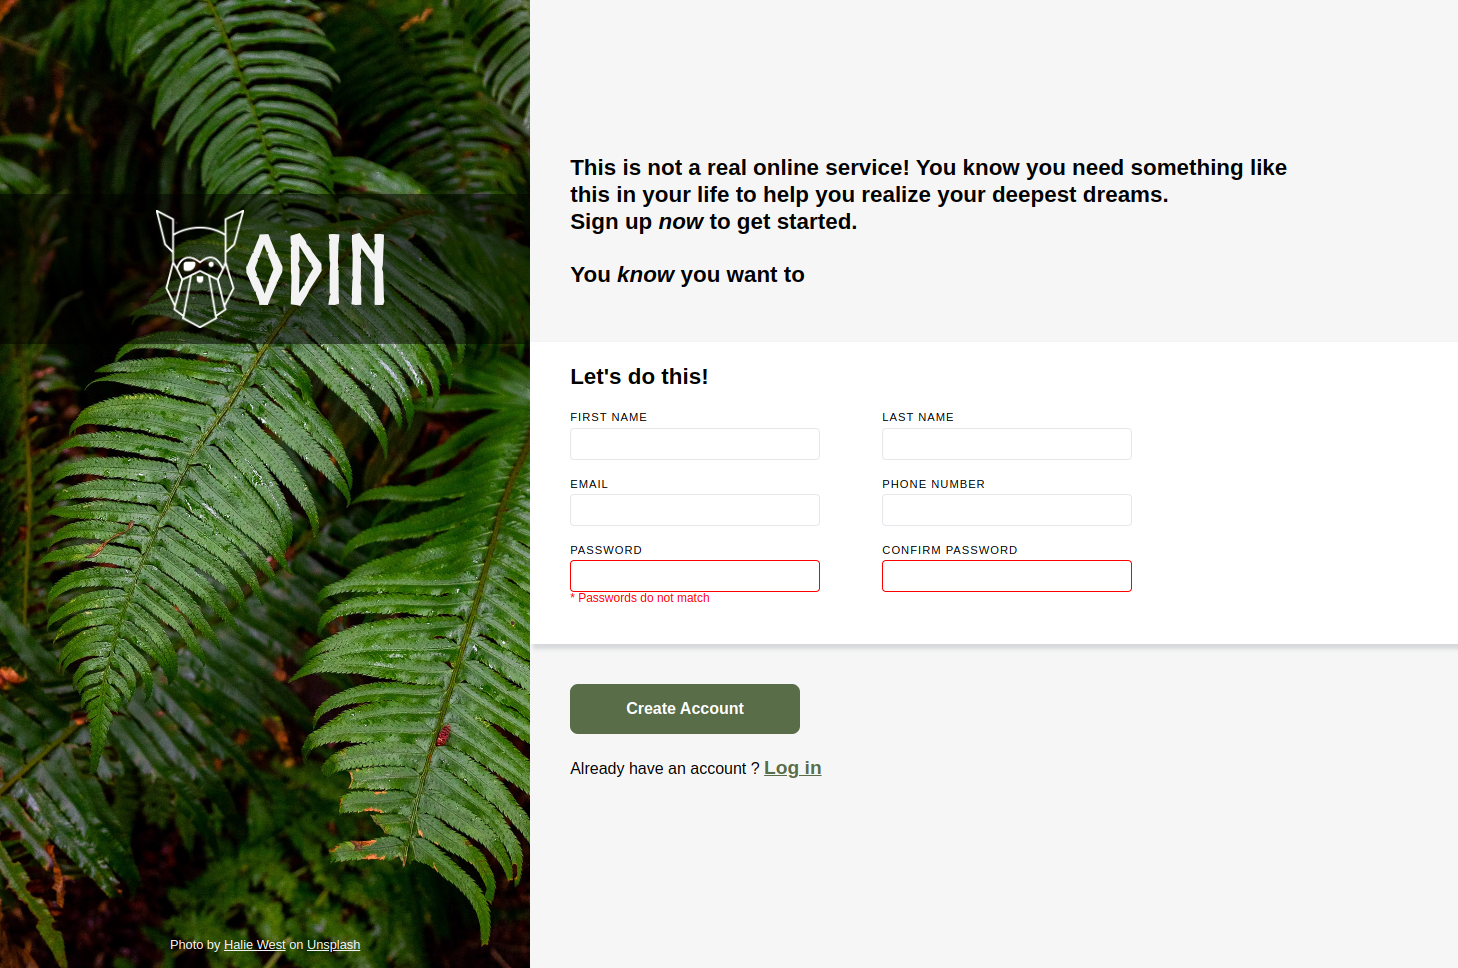
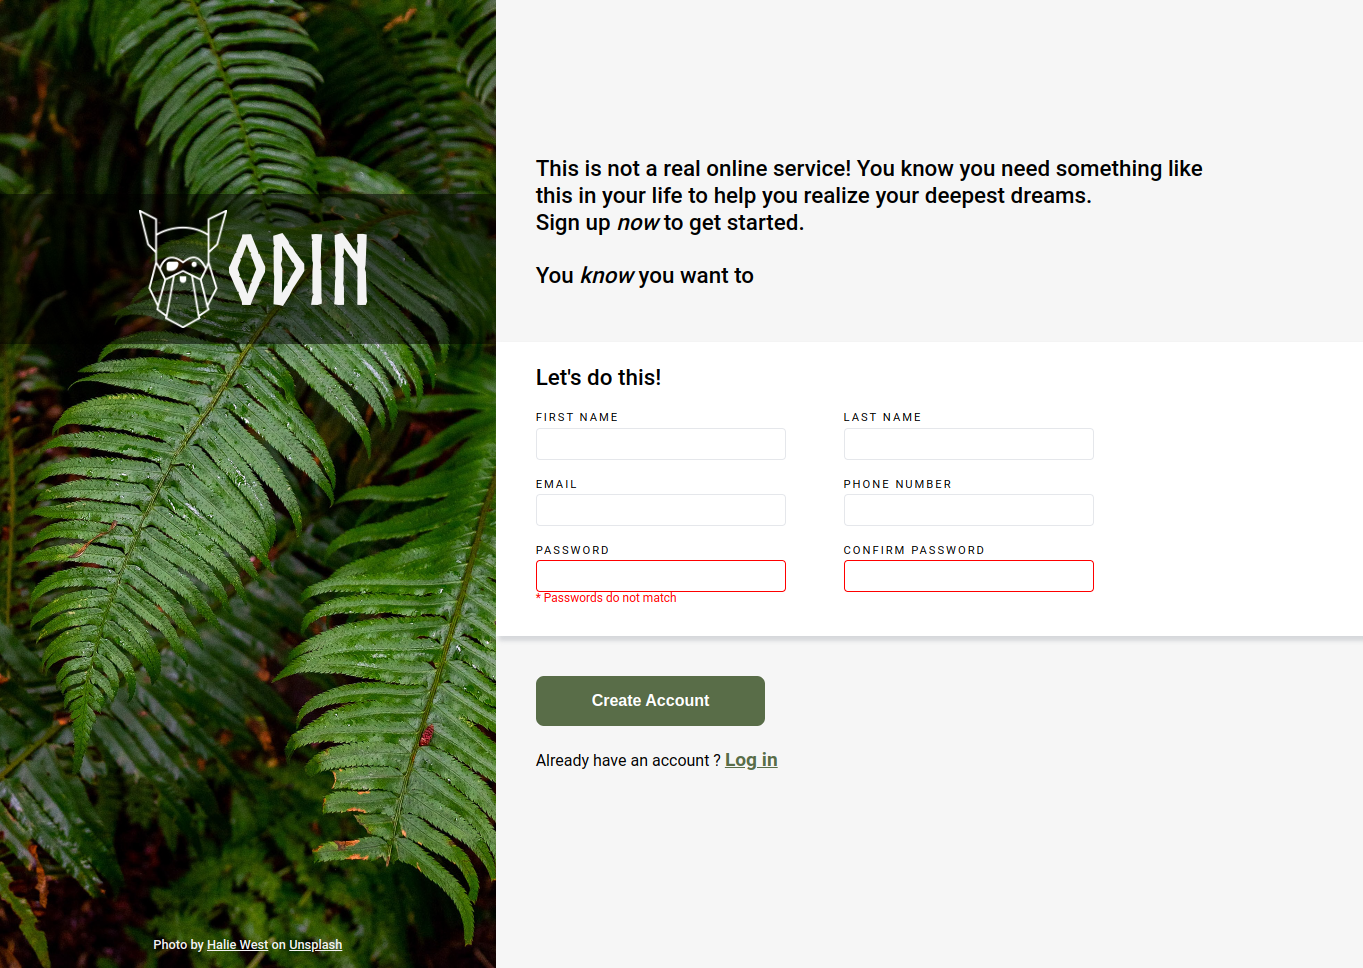
updated font

diff --git a/style.css b/style.css
@@ -8,7 +8,7 @@
 }
 
 main {
-  font-family: sans-serif;
+  font-family: 'Roboto',sans-serif;
   background-color: #fff;
   width: 100vw;
   height: 100vh;
@@ -77,7 +77,7 @@ main {
   margin: 16vh 2.5rem 2.5rem;
   max-width: 80%;
   font-size: 1.4rem;
-  font-weight: 600;
+  font-weight: 500;
   line-height: 1.2;
 }
 
@@ -94,7 +94,7 @@ main {
 /* form CTA */
 .form h2 {
   font-size: 1.4rem;
-  font-weight: 700;
+  font-weight: 500;
   padding: 1.5rem 0;
   margin-left: 2.5rem;
 }
@@ -104,7 +104,7 @@ main {
   display: flex;
   flex-direction: column;
   gap: 1.2rem;
-  margin-bottom: 2.5rem;
+  margin-bottom: 2rem;
   margin-left: 2.5rem;
 }
 .form-input {
@@ -114,13 +114,14 @@ main {
 
 .form-input > :last-child {
   padding-left: 10%;
+
 }
 
 label {
   display: block;
   font-size: .7rem;
   text-transform: uppercase;
-  letter-spacing: 1px;
+  letter-spacing: 2px;
   padding-bottom: 4px;
 }
 

diff --git a/index.html b/index.html
@@ -4,6 +4,9 @@
     <meta charset="UTF-8" />
     <meta http-equiv="X-UA-Compatible" content="IE=edge" />
     <meta name="viewport" content="width=device-width, initial-scale=1.0" />
+    <link rel="preconnect" href="https://fonts.googleapis.com">
+<link rel="preconnect" href="https://fonts.gstatic.com" crossorigin>
+<link href="https://fonts.googleapis.com/css2?family=Roboto:wght@300;400;500;700&display=swap" rel="stylesheet">
     <link rel="stylesheet" href="reset.css">
     <link rel="stylesheet" href="style.css" />
     <script src="main.js" defer></script>
